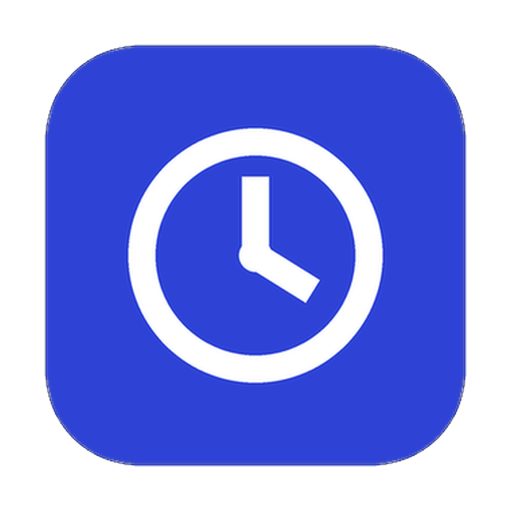
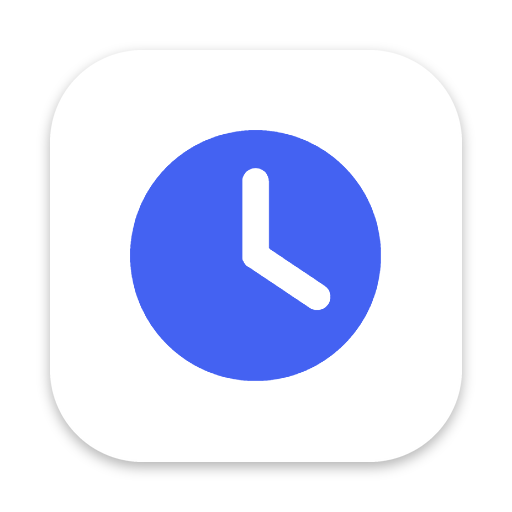
V2.06.01: ícone novo do Tempo
Claude-Session: https://claude.ai/code/session_01H76yXWGUPqLeQG2ttbkmDK

diff --git a/sw.js b/sw.js
@@ -1,6 +1,6 @@
 /* Service worker do Tempo: rede primeiro (sempre a versão mais nova),
    cache só como reserva para abrir sem internet. */
-const CACHE = 'tempo-v2';
+const CACHE = 'tempo-v3';
 self.addEventListener('install', (e) => { self.skipWaiting(); });
 self.addEventListener('activate', (e) => {
   e.waitUntil(caches.keys().then(keys => Promise.all(keys.filter(k => k !== CACHE).map(k => caches.delete(k)))).then(() => self.clients.claim()));

diff --git a/js/config.js b/js/config.js
@@ -7,4 +7,4 @@ window.TEMPO_CFG = {
 };
 
 /* versão exibida no rodapé da barra lateral; aumentar a cada publicação */
-const APP_VERSION = 'V2.05.08';
+const APP_VERSION = 'V2.06.01';

diff --git a/BACKLOG.md b/BACKLOG.md
@@ -716,6 +716,7 @@ Estado ao fim da conversa V2.04 (site em V2.04.16). Detalhes de cada versão nas
 4. ~~Modo foco~~ (V2.05.06: `js/foco.js` + `mac/Sources/TempoMac/Foco.swift`. Cartão na tela inicial e item "Ativar foco" na barra do Mac (30/60/90/120 min); estado em `tempo_settings` 'foco', histórico em 'focoLog'. Mac esconde os apps de "Apps que pausam" e pergunta ao abrir; sites de "Sites que pausam" no navegador também perguntam; "Abrir mesmo assim" libera 10 min e conta como abertura. Não perturbe pelos atalhos "Tempo Foco" e "Tempo Fim do Foco" do app Atalhos (o Tulio cria); iPhone acompanha se o foco for compartilhado entre dispositivos. Cliente/agência avisa por notificação do Tempo; WhatsApp lido a cada 1 min no foco. Falta testar no Mac.)
 - V2.05.07: WhatsApp de amigo (e outros apps/sites de distração) vira pausa a partir de 10 s, não mais 1 min; a maior parte do uso eram espiadas de 20 a 50 s que contavam como trabalho. Pausa abaixo de 1 min entra sem aviso na tela.
 - V2.05.08: WhatsApp separado nos gráficos e faixas: "WhatsApp Cliente" (contato de trabalho, verde pastel #47BD86, liso) e "WhatsApp Distração" (verde claro #6cf1ae, listrado nas pausas). `toolName`/`waToolName` em `js/activity.js`. Modo foco virou botão "Modo foco" ao lado do "Iniciar registro" (pergunta 30/60/90/120 ou outro); saiu o cartão grande, o "Iniciar registro" repetido do topo da tela inicial e o botão de setinha da barra de cima (sem sessão).
+- V2.06.01: ícone novo do Tempo (relógio azul em quadrado branco) no site, atalho do celular, favicon e app do Mac.
 5. Tempo de WhatsApp com cada cliente somado às horas do projeto.
 6. Supabase: proteção contra senha vazada (só o Tulio) e decidir sobre as tabelas antigas (backup_* e gpt_old_*).
 7. Limpeza do código das telas.
